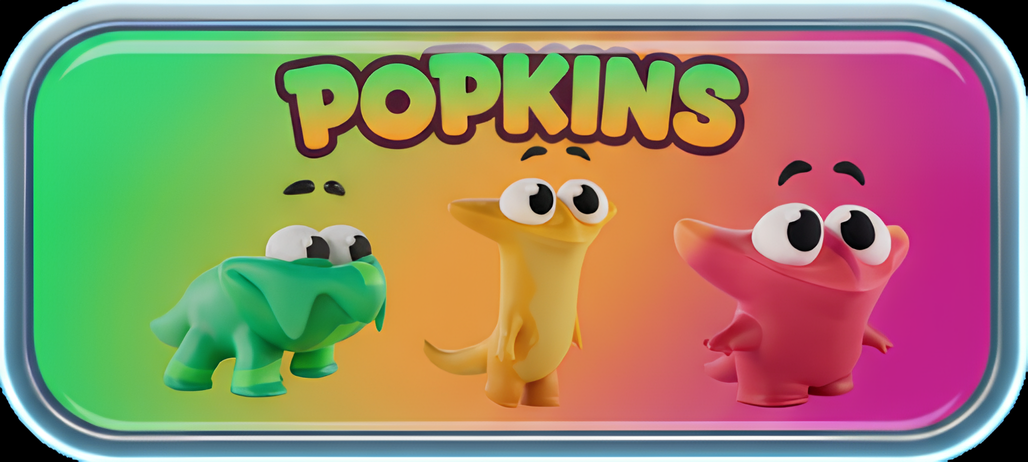
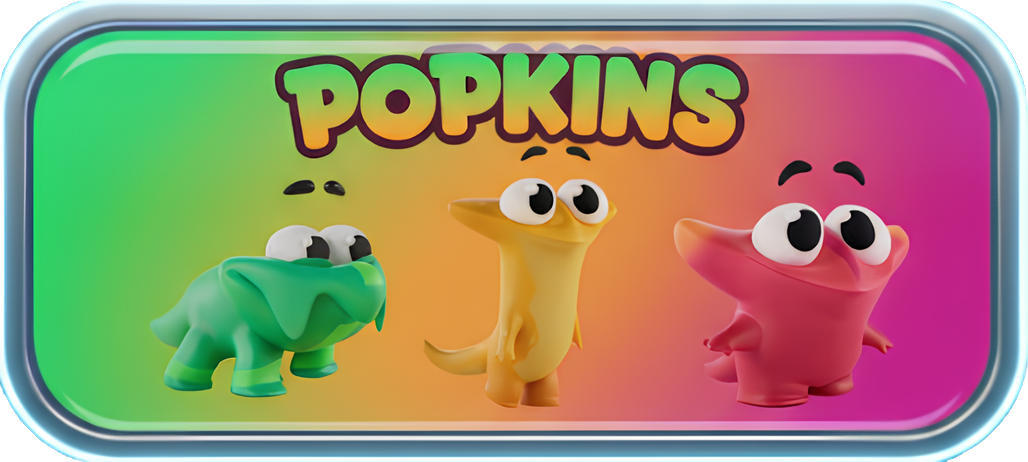
Enhance VotePoolPage with custom styles for "Popkins" collection, including a unique background gradient and typography. Update index.html to preload Google Fonts for improved performance. Replace gradient with stroke styling for buttons in Popkins polls. Update popkins.png image file.

diff --git a/frontend/src/pages/VotePoolPage.tsx b/frontend/src/pages/VotePoolPage.tsx
@@ -125,7 +125,15 @@ const VotePoolPage = () => {
   const theme = selectedCollection?.theme;
   // Always use dark background like other pages
   const defaultBackground = "linear-gradient(180deg, #000000 0%, #0a1128 50%, #000000 100%)";
-  const backgroundGradient = defaultBackground; // Keep dark background, NFT theme only affects NFT images
+  
+  let backgroundGradient = defaultBackground;
+
+  // Custom background for Popkins
+  if (selectedCollection?.name === "Popkins") {
+    // Green (Left) -> Orange (Center) -> Pink (Right)
+    // Using darker shades to maintain readability while keeping the colors visible
+    backgroundGradient = "linear-gradient(90deg, rgba(16, 185, 129, 0.8) 0%, rgba(245, 158, 11, 0.8) 50%, rgba(236, 72, 153, 0.8) 100%), linear-gradient(180deg, #000000 0%, transparent 50%, #000000 100%)";
+  }
 
   return (
     <div 
@@ -620,7 +628,8 @@ const VotePoolPage = () => {
               if (collection) {
                 if (collection.name === "Popkins") {
                   title = "POPKINS VOTE POLLS";
-                  gradient = "linear-gradient(90deg, #10b981 0%, #34d399 15%, #fbbf24 30%, #f59e0b 45%, #f97316 60%, #ec4899 75%, #f472b6 90%, #10b981 100%)"; // Green → Orange → Pink (buton gradyanı gibi)
+                  // Gradient yerine stroke kullanacağız, o yüzden burada gradient'i boş geçebiliriz veya stil içinde override edebiliriz
+                  gradient = "none"; 
                 } else if (collection.name === "Tallys") {
                   title = "TALLYS VOTE POLLS";
                   gradient = "linear-gradient(90deg, #ec4899 0%, #f472b6 20%, #fb7185 40%, #ef4444 60%, #dc2626 80%, #991b1b 100%)"; // Pink to Red
@@ -637,22 +646,45 @@ const VotePoolPage = () => {
               }
             }
             
+            const isPopkins = title === "POPKINS VOTE POLLS";
+
             return (
               <>
                 <h2 
                   className="active-pools-animated-text"
                   style={{ 
-                    fontSize: "clamp(1.75rem, 4.5vw, 3rem)", 
                     marginBottom: "0.5rem",
                     fontWeight: "900",
                     textTransform: "uppercase",
-                    backgroundImage: gradient,
-                    backgroundSize: "300% auto",
-                    WebkitBackgroundClip: "text",
-                    WebkitTextFillColor: "transparent",
-                    backgroundClip: "text",
-                    color: "transparent",
-                    animation: "smoothFlowingGradient 5s ease-in-out infinite",
+                    // Popkins için özel stil: Graffiti tarzı
+                    ...(isPopkins ? {
+                      fontFamily: '"Titan One", cursive',
+                      fontSize: "clamp(2.5rem, 6vw, 4.5rem)",
+                      letterSpacing: "0.02em",
+                      // İç Renk: Yeşil -> Turuncu Gradyan (Kullanıcı isteği)
+                      backgroundImage: "linear-gradient(180deg, #4ade80 20%, #f97316 80%)",
+                      WebkitBackgroundClip: "text",
+                      WebkitTextFillColor: "transparent",
+                      backgroundClip: "text",
+                      color: "transparent",
+                      // Dış Kontur: Daha ince siyah (Kullanıcı isteği)
+                      WebkitTextStroke: "clamp(2px, 0.5vw, 4px) #000000", 
+                      paintOrder: "stroke fill", // Kontur dışa doğru olsun
+                      // Gölge
+                      filter: "drop-shadow(0 4px 0 rgba(0,0,0,0.2))",
+                      animation: "none",
+                      lineHeight: "1.2",
+                      padding: "0.2em 0" // Stroke'un kesilmemesi için
+                    } : {
+                      fontSize: "clamp(1.75rem, 4.5vw, 3rem)", 
+                      backgroundImage: gradient,
+                      backgroundSize: "300% auto",
+                      WebkitBackgroundClip: "text",
+                      WebkitTextFillColor: "transparent",
+                      backgroundClip: "text",
+                      color: "transparent",
+                      animation: "smoothFlowingGradient 5s ease-in-out infinite",
+                    }),
                     display: "block",
                     width: "100%",
                     whiteSpace: "nowrap",
@@ -662,7 +694,13 @@ const VotePoolPage = () => {
                 >
                   {title}
                 </h2>
-          <p style={{ color: "var(--text-muted)", fontSize: "clamp(1rem, 2vw, 1.1rem)", marginBottom: "1rem" }}>
+          <p style={{ 
+            color: isPopkins ? "rgba(0, 0, 0, 0.85)" : "var(--text-muted)", 
+            fontSize: "clamp(1rem, 2vw, 1.1rem)", 
+            marginBottom: "1rem",
+            fontWeight: isPopkins ? "600" : "normal",
+            textShadow: isPopkins ? "0 1px 2px rgba(255,255,255,0.3)" : "none"
+          }}>
             Participate in ongoing polls and make your voice heard
           </p>
           {selectedCollectionType && (() => {
@@ -750,11 +788,25 @@ const VotePoolPage = () => {
         {/* Empty State */}
         {!isLoadingPools && pools.length === 0 && (
           <div style={{ textAlign: "center", padding: "2rem" }}>
-            <p style={{ color: "var(--text-muted)", fontSize: "1.1rem", marginBottom: "1rem" }}>
+            <p style={{ 
+              color: selectedCollection?.name === "Popkins" ? "rgba(0, 0, 0, 0.85)" : "var(--text-muted)", 
+              fontSize: "1.1rem", 
+              marginBottom: "1rem",
+              fontWeight: selectedCollection?.name === "Popkins" ? "600" : "normal"
+            }}>
               No polls found. Create the first poll!
             </p>
             {account && userProfile && (
-              <button onClick={handleCreateVotePool} className="button button-primary">
+              <button 
+                onClick={handleCreateVotePool} 
+                className="button button-primary"
+                style={selectedCollection?.name === "Popkins" ? {
+                  backgroundColor: "#000000",
+                  color: "#ffffff",
+                  fontWeight: "700",
+                  boxShadow: "0 4px 14px rgba(0,0,0,0.3)"
+                } : undefined}
+              >
                 Create First Poll
               </button>
             )}

diff --git a/frontend/index.html b/frontend/index.html
@@ -5,6 +5,9 @@
     <link rel="icon" type="image/png" href="/pollar-logo.png" />
     <meta name="viewport" content="width=device-width, initial-scale=1.0" />
     <title>Pollar</title>
+    <link rel="preconnect" href="https://fonts.googleapis.com">
+    <link rel="preconnect" href="https://fonts.gstatic.com" crossorigin>
+    <link href="https://fonts.googleapis.com/css2?family=Titan+One&display=swap" rel="stylesheet">
 
     <style>
       /*
